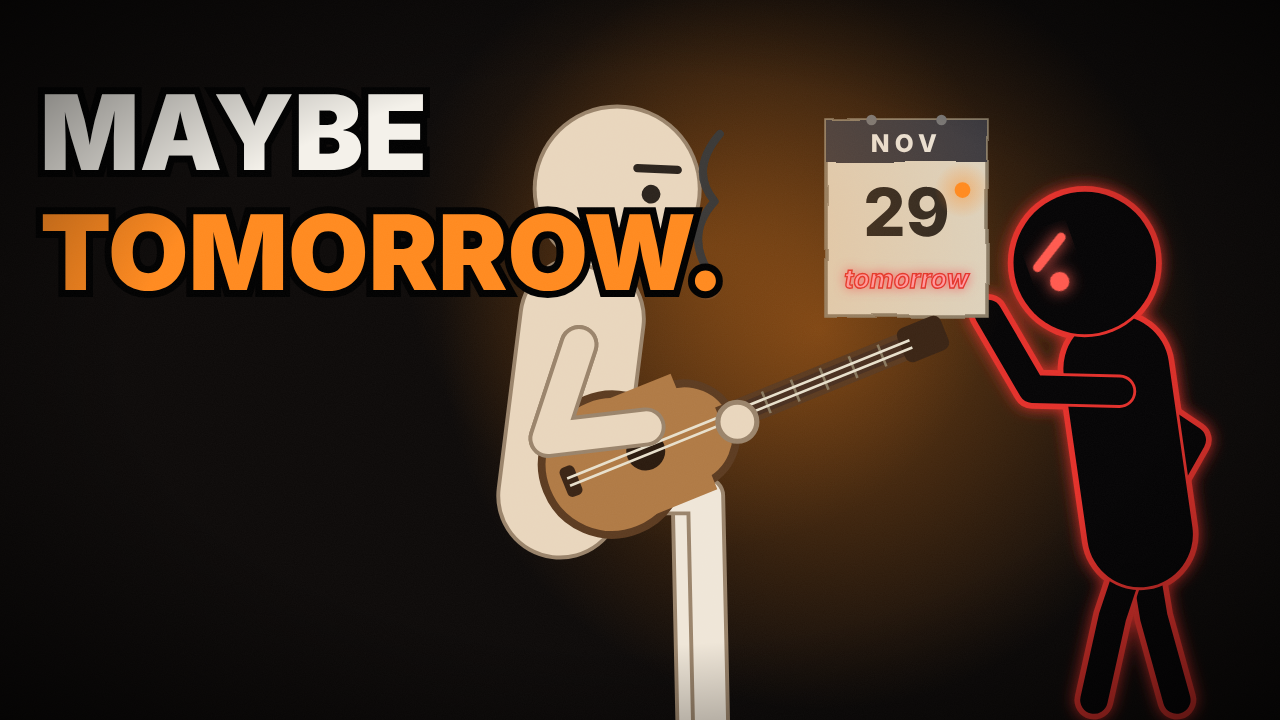
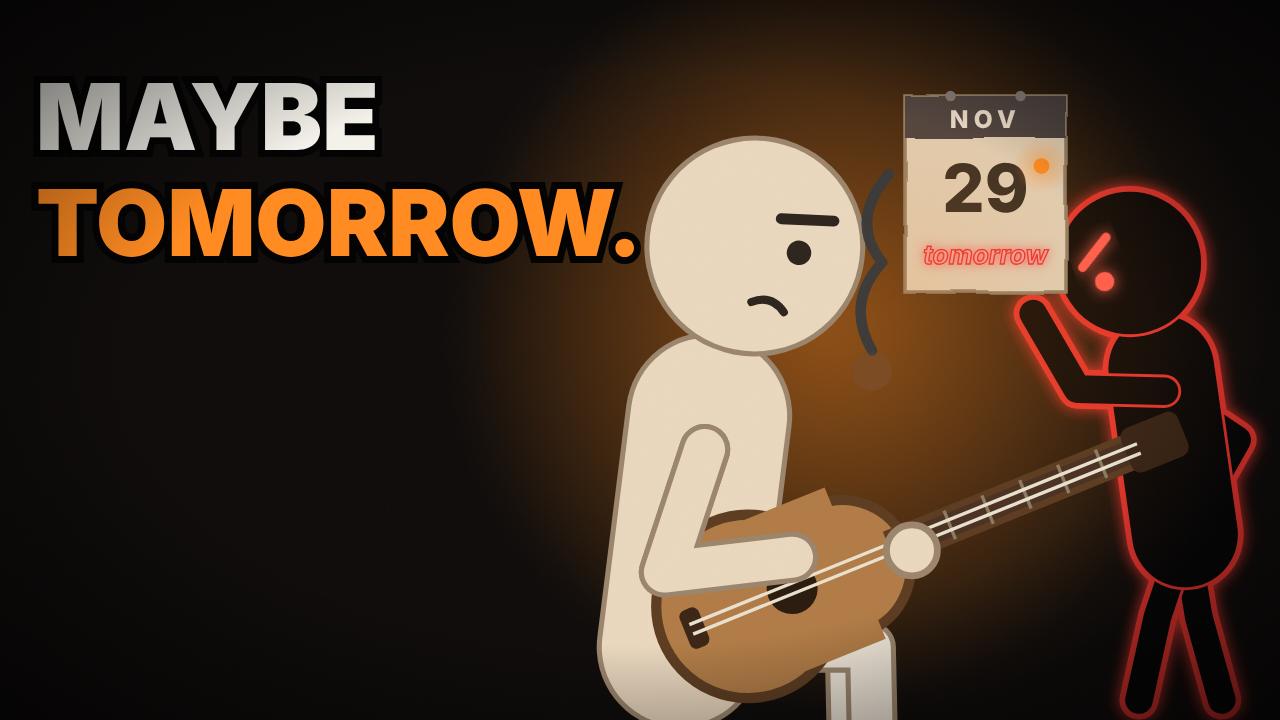
TOMORROW: 3 thumbnail (A chính, C thử, B dự phòng), chữ không đè mặt
Claude-Session: https://claude.ai/code/session_01D563dT2ZpFvoT58NnMU5yo

diff --git a/docs/day-one-films/video-tomorrow/ve-thumbnail.js b/docs/day-one-films/video-tomorrow/ve-thumbnail.js
@@ -17,10 +17,10 @@ const ART = () => {
       let s = K.glow(820, 330, 380, 0.45);
       // lịch + kẻ thù (phóng to quanh gốc 0,0)
       const E = K.whisperPose(0, 0, -1); E.lh = [-66, -168]; E.le = [-34, -136];
-      s += at(1140, 700, 2.3, K.shadowFig(E));
-      s += at(826, 120, 1.75, K.calendar(0, 0, 29, { note: 1, ember: 1 }));
-      s += at(560, 735, 2.6, K.playing(0, 0, { flame: 0.12, t: T, mood: 'sad' }).s);
-      s += big(40, 170, 'MAYBE', { size: 104 }) + big(40, 290, 'TOMORROW.', { size: 104, c: ORANGE });
+      s += at(1185, 700, 2.3, K.shadowFig(E));
+      s += at(905, 96, 1.75, K.calendar(0, 0, 29, { note: 1, ember: 1 }));
+      s += at(680, 960, 3.4, K.playing(0, 0, { flame: 0.12, t: T, mood: 'sad' }).s);
+      s += big(36, 150, 'MAYBE', { size: 92 }) + big(36, 256, 'TOMORROW.', { size: 92, c: ORANGE });
       return wrap(s);
     },
     // B: trước/sau — trái: mưa ngoài quán, DAYS LEFT 0 · phải: sân khấu, đèn, lửa bùng; chữ TOMORROW gạch → TODAY.
@@ -34,6 +34,18 @@ const ART = () => {
       s += big(960, 100, 'TODAY.', { size: 84, c: YEL, a: 'middle', sw: 12 });
       return wrap(s);
     },
+    // C: bước cuối — mặt Spark to, lửa bùng; kẻ thù chắn lối, thân đầy vết nứt vàng; dưới chân "DAY 45"
+    C() {
+      let s = `<path d="M1280,0 L1280,720 L760,720 L980,0Z" fill="#f0d8a8" opacity=".18"/>` + K.glow(980, 360, 420, 0.4);
+      const E = K.whisperPose(0, 0, -1);
+      s += at(1060, 820, 3.2, K.shadowFig(E));
+      const cr = [[[0, -150], [-14, -120], [6, -96], [-8, -70]], [[18, -60], [4, -30], [22, -6], [10, 24]], [[-30, -186], [-10, -160], [-26, -130], [-6, -110]], [[30, -200], [10, -176], [26, -150]], [[-20, -10], [-4, 14], [-24, 40]]];
+      cr.forEach(c => { s += `<polyline points="${c.map(([x, y]) => [1060 + x * 3.2 * 0.8, 820 + (y - 100) * 3.2 * 0.55].join(',')).join(' ')}" fill="none" stroke="${YEL}" stroke-width="9" stroke-linecap="round" stroke-linejoin="round" filter="url(#yelGlow)"/>`; });
+      const J = K.stand(0, 0, { look: 10 });
+      s += at(560, 1130, 3.6, K.fig(J, { flame: 1.25, t: T, mood: 'fierce' }));
+      s += big(36, 130, 'NOT', { size: 96, c: YEL, f: 'yelGlow' }) + big(36, 236, 'TOMORROW.', { size: 92 });
+      return wrap(s);
+    },
   };
 };
 
@@ -45,7 +57,7 @@ const ART = () => {
   await page.setContent('<html><body style="margin:0"><div id="v"></div></body></html>');
   await page.addScriptTag({ path: path.join(__dirname, 'scene.js') });
   await page.addScriptTag({ content: `window.ART = (${ART.toString()})();` });
-  for (const k of ['A', 'B']) {
+  for (const k of ['A', 'B', 'C']) {
     await page.evaluate(k => { document.getElementById('v').innerHTML = window.ART[k](); }, k);
     await page.screenshot({ path: path.join(OUT, `thumbnail-tomorrow-${k}.png`) });
     console.log(k);

diff --git a/docs/day-one-films/video-tomorrow/UPLOAD.md b/docs/day-one-films/video-tomorrow/UPLOAD.md
@@ -35,10 +35,15 @@ Spark waited 30 days and missed the night.
 What's the one thing you keep saying "tomorrow" to? 👇
 ```
 
-**Thumbnail:**
-- Bản chính là **A** "MAYBE TOMORROW." (Spark ôm đàn, kẻ thù viết "tomorrow" lên lịch).
-- Bản thử là **B** "TOMORROW → TODAY." (trước và sau).
-- Khi kênh đủ điều kiện, bật Thử nghiệm và so sánh.
+**Thumbnail** (thư mục `anh/`, vẽ lại bằng `node ve-thumbnail.js anh`):
+
+| Bản | Nội dung | Dùng khi |
+|---|---|---|
+| **A "MAYBE TOMORROW."** | Spark ôm đàn, mặt buồn. Kẻ thù viết "tomorrow" lên tờ lịch NOV 29. Ánh sáng từ đốm lửa | **Bản chính.** Nói ra nỗi đau, không lộ kết |
+| C "NOT TOMORROW." | Mặt Spark quyết tâm, lửa bùng, kẻ thù chắn lối với thân đầy vết nứt vàng | Bản thử với A trong "Thử nghiệm và so sánh" |
+| B "TOMORROW → TODAY." | Trước và sau: mưa và sân khấu | Dự phòng. Bản này lộ kết phim nên để sau |
+
+Theo style bible, thumbnail không được lộ twist. Vì vậy chọn A làm bản chính và thử với C.
 
 **Danh sách phát:** Battles Inside (All Films), Discipline.
 
